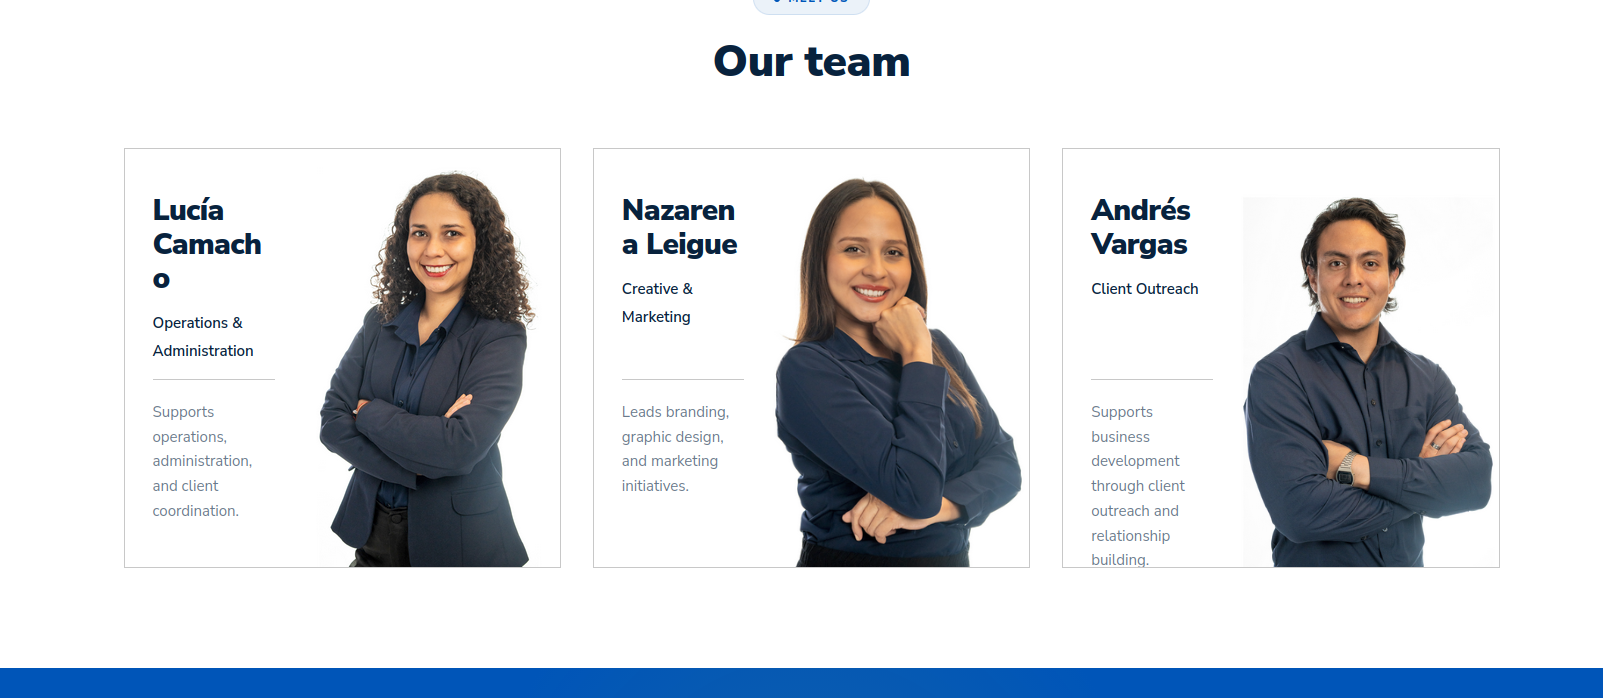
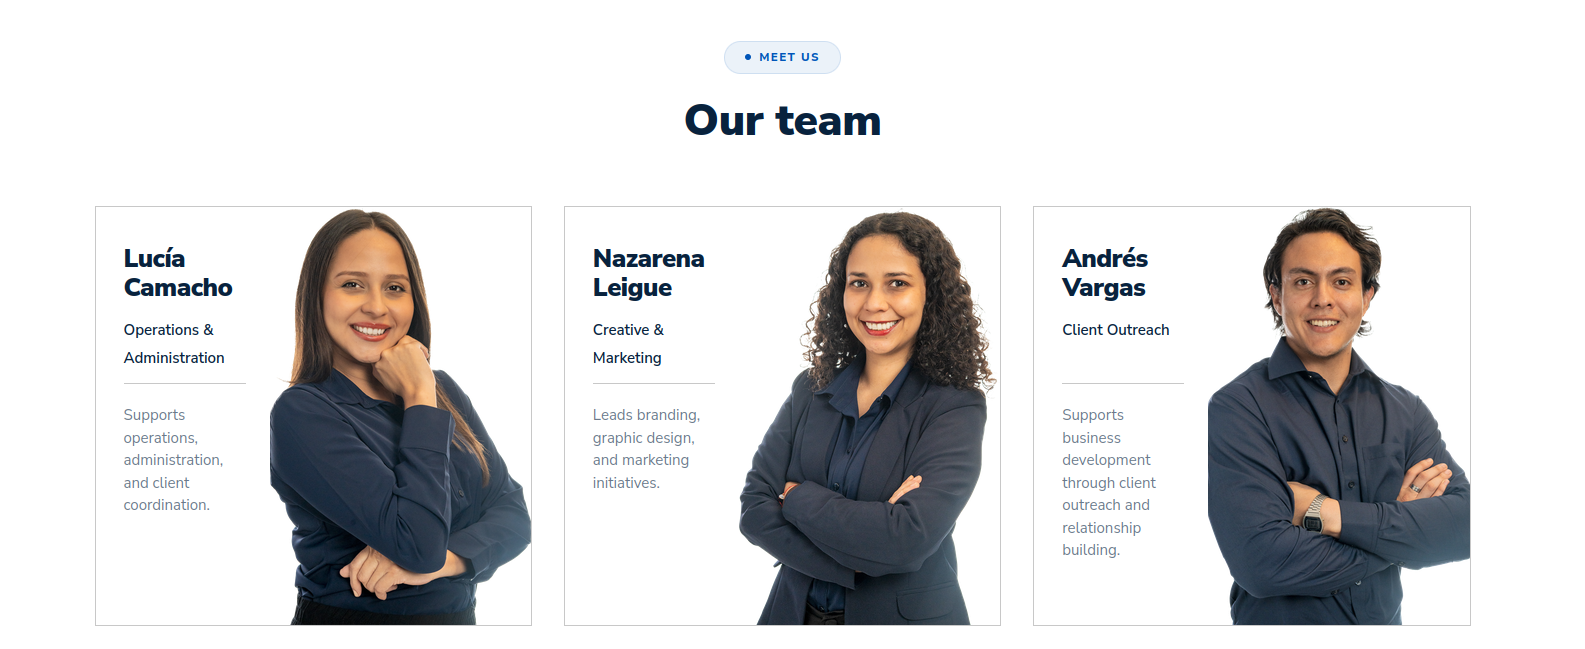
changeess

diff --git a/main_files/business-consulting.html b/main_files/business-consulting.html
@@ -425,24 +425,52 @@
       animation: rltSegPulse 1.25s infinite ease-in-out;
     }
 
-    .rlt-pl-mark .seg2 { animation-delay: 0.14s; }
-    .rlt-pl-mark .seg3 { animation-delay: 0.28s; }
-    .rlt-pl-mark .seg4 { animation-delay: 0.42s; }
+    .rlt-pl-mark .seg2 {
+      animation-delay: 0.14s;
+    }
+
+    .rlt-pl-mark .seg3 {
+      animation-delay: 0.28s;
+    }
+
+    .rlt-pl-mark .seg4 {
+      animation-delay: 0.42s;
+    }
 
     @keyframes rltMarkBreath {
-      0%, 100% { transform: scale(1) rotate(0deg); }
-      50%      { transform: scale(1.07) rotate(4deg); }
+
+      0%,
+      100% {
+        transform: scale(1) rotate(0deg);
+      }
+
+      50% {
+        transform: scale(1.07) rotate(4deg);
+      }
     }
 
     @keyframes rltSegPulse {
-      0%, 100% { opacity: 0.25; }
-      50%      { opacity: 1; }
+
+      0%,
+      100% {
+        opacity: 0.25;
+      }
+
+      50% {
+        opacity: 1;
+      }
     }
 
     @media (prefers-reduced-motion: reduce) {
+
       .rlt-pl-mark,
-      .rlt-pl-mark .seg { animation: none; }
-      .rlt-pl-mark .seg { opacity: 1; }
+      .rlt-pl-mark .seg {
+        animation: none;
+      }
+
+      .rlt-pl-mark .seg {
+        opacity: 1;
+      }
     }
   </style>
   <div class="preloader">
@@ -3647,9 +3675,11 @@
               loading="lazy">
             <div class="rlt-about-photo-badge">
               <div class="badge-initial">
-                <svg viewBox="0 0 24 24" width="18" height="18" fill="none" stroke="currentColor"
-                  stroke-width="2" stroke-linecap="round" stroke-linejoin="round" aria-hidden="true">
-                  <polygon points="12 2 15.09 8.26 22 9.27 17 14.14 18.18 21.02 12 17.77 5.82 21.02 7 14.14 2 9.27 8.91 8.26 12 2"></polygon>
+                <svg viewBox="0 0 24 24" width="18" height="18" fill="none" stroke="currentColor" stroke-width="2"
+                  stroke-linecap="round" stroke-linejoin="round" aria-hidden="true">
+                  <polygon
+                    points="12 2 15.09 8.26 22 9.27 17 14.14 18.18 21.02 12 17.77 5.82 21.02 7 14.14 2 9.27 8.91 8.26 12 2">
+                  </polygon>
                 </svg>
               </div>
               <div class="badge-info">
@@ -3664,9 +3694,11 @@
             <img src="assets/img/founders-rlt.png" alt="Mauro Antelo — Co-Founder of Real Latino Talent" loading="lazy">
             <div class="rlt-about-photo-badge">
               <div class="badge-initial">
-                <svg viewBox="0 0 24 24" width="18" height="18" fill="none" stroke="currentColor"
-                  stroke-width="2" stroke-linecap="round" stroke-linejoin="round" aria-hidden="true">
-                  <polygon points="12 2 15.09 8.26 22 9.27 17 14.14 18.18 21.02 12 17.77 5.82 21.02 7 14.14 2 9.27 8.91 8.26 12 2"></polygon>
+                <svg viewBox="0 0 24 24" width="18" height="18" fill="none" stroke="currentColor" stroke-width="2"
+                  stroke-linecap="round" stroke-linejoin="round" aria-hidden="true">
+                  <polygon
+                    points="12 2 15.09 8.26 22 9.27 17 14.14 18.18 21.02 12 17.77 5.82 21.02 7 14.14 2 9.27 8.91 8.26 12 2">
+                  </polygon>
                 </svg>
               </div>
               <div class="badge-info">
@@ -3846,7 +3878,7 @@
       width: 100%;
       height: 100%;
       object-fit: cover;
-      object-position: bottom center;
+      object-position: top center;
       display: block;
       transition: transform 0.55s cubic-bezier(0.25, 1, 0.5, 1);
     }
@@ -3940,7 +3972,7 @@
             </div>
           </div>
           <div class="rlt-meet-photo">
-            <img src="assets/img/luciaCamacho.jpg" alt="Lucía Camacho — Real Latino Talent" loading="lazy">
+            <img src="assets/img/Lucia-Camacho.png" alt="Lucía Camacho — Real Latino Talent" loading="lazy">
           </div>
         </div>
 
@@ -3957,7 +3989,7 @@
             </div>
           </div>
           <div class="rlt-meet-photo">
-            <img src="assets/img/nazarenaLeigue.jpg" alt="Nazarena Leigue — Real Latino Talent" loading="lazy">
+            <img src="assets/img/Nazarena-Leigue.png" alt="Nazarena Leigue — Real Latino Talent" loading="lazy">
           </div>
         </div>
 
@@ -3975,7 +4007,7 @@
             </div>
           </div>
           <div class="rlt-meet-photo">
-            <img src="assets/img/andresVargas.jpg" alt="Andrés Vargas — Real Latino Talent" loading="lazy">
+            <img src="assets/img/Andres-Vargas.png" alt="Andrés Vargas — Real Latino Talent" loading="lazy">
           </div>
         </div>
 
